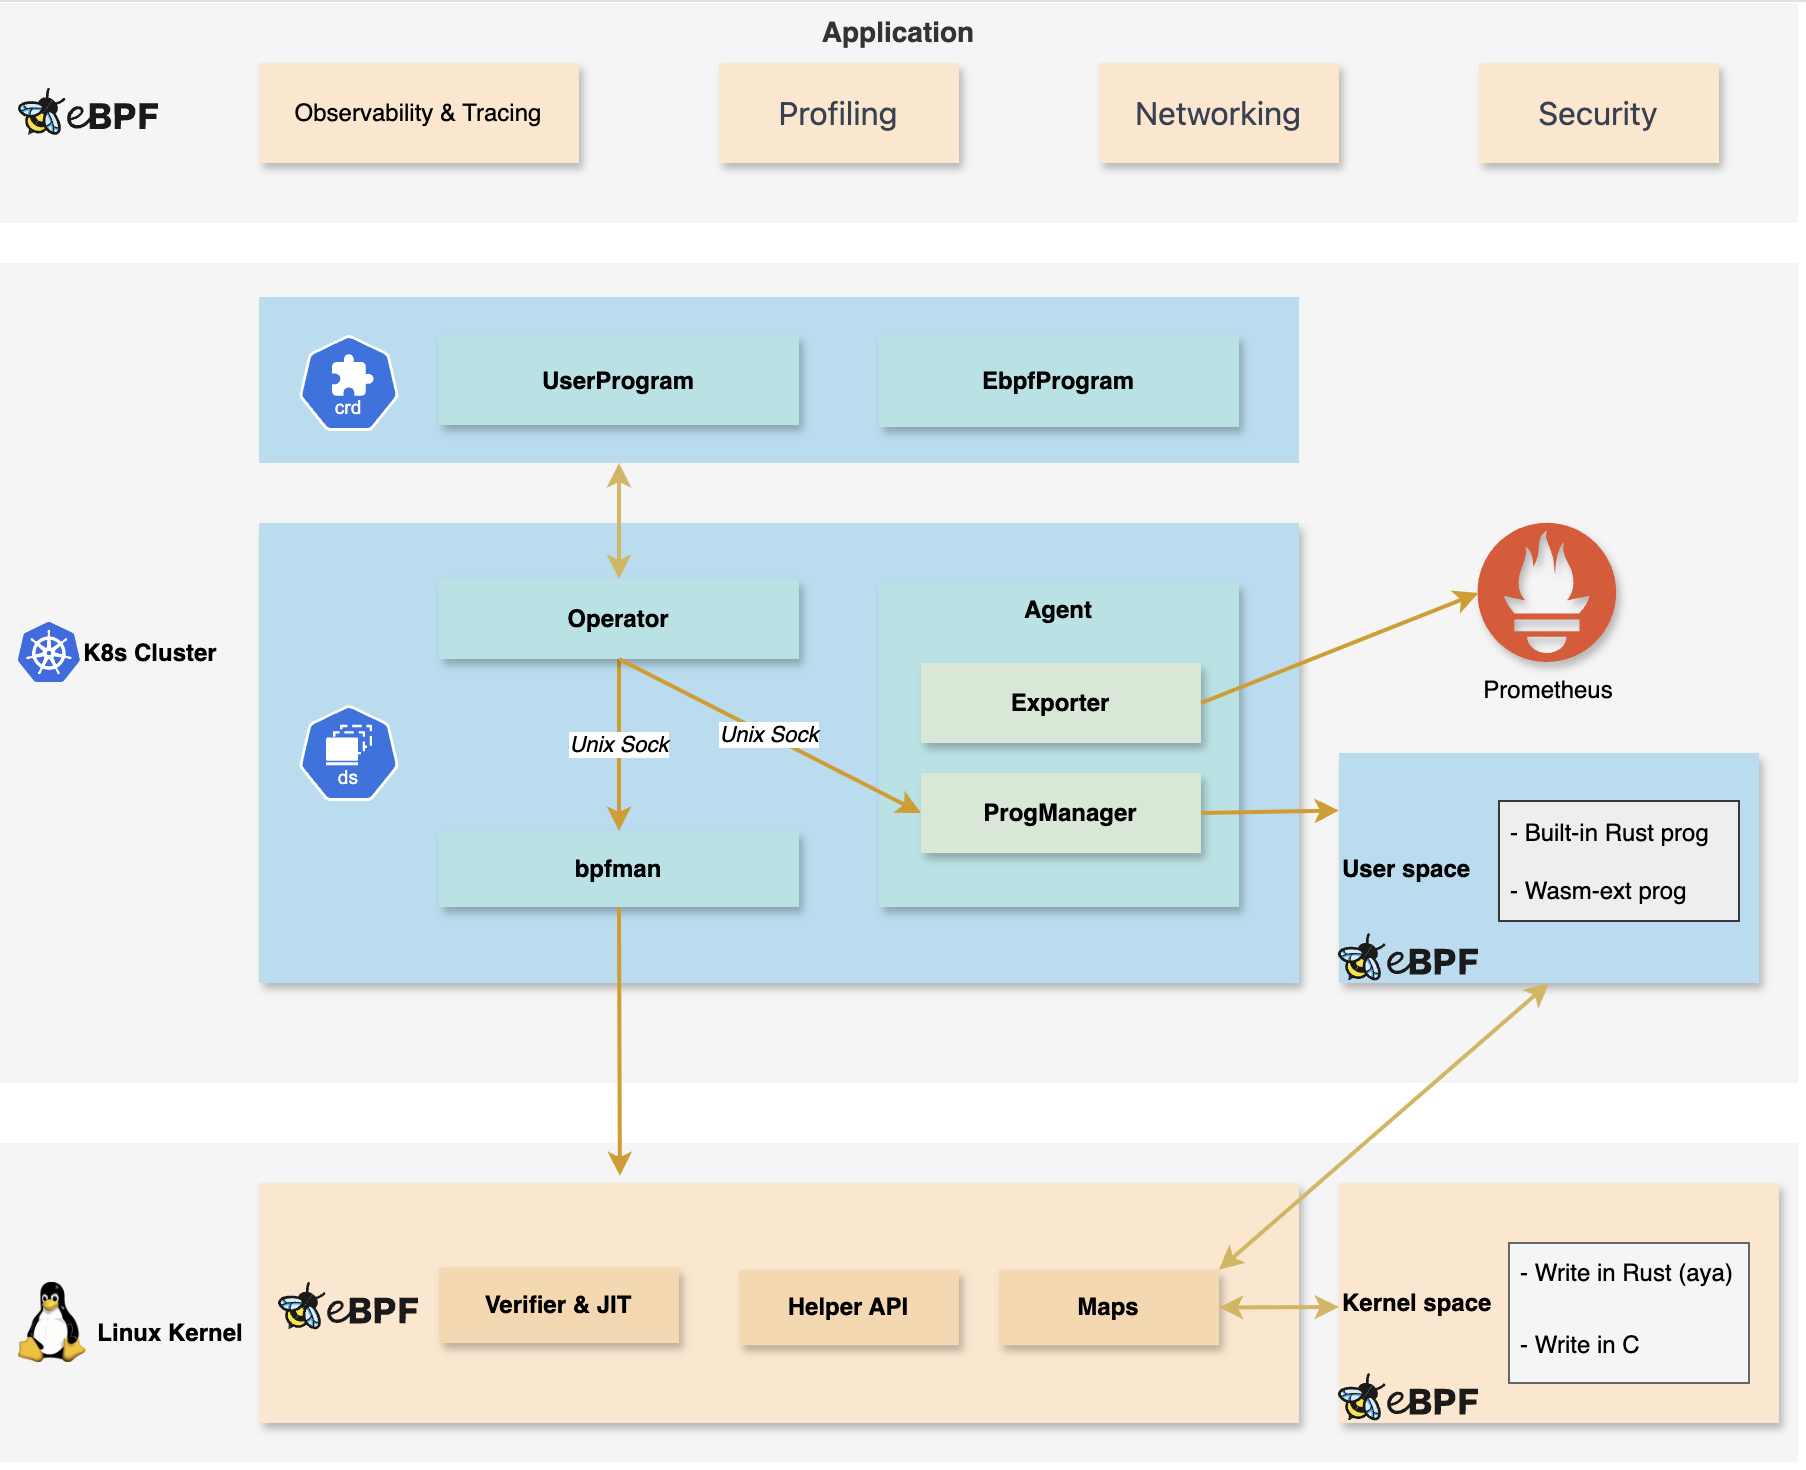
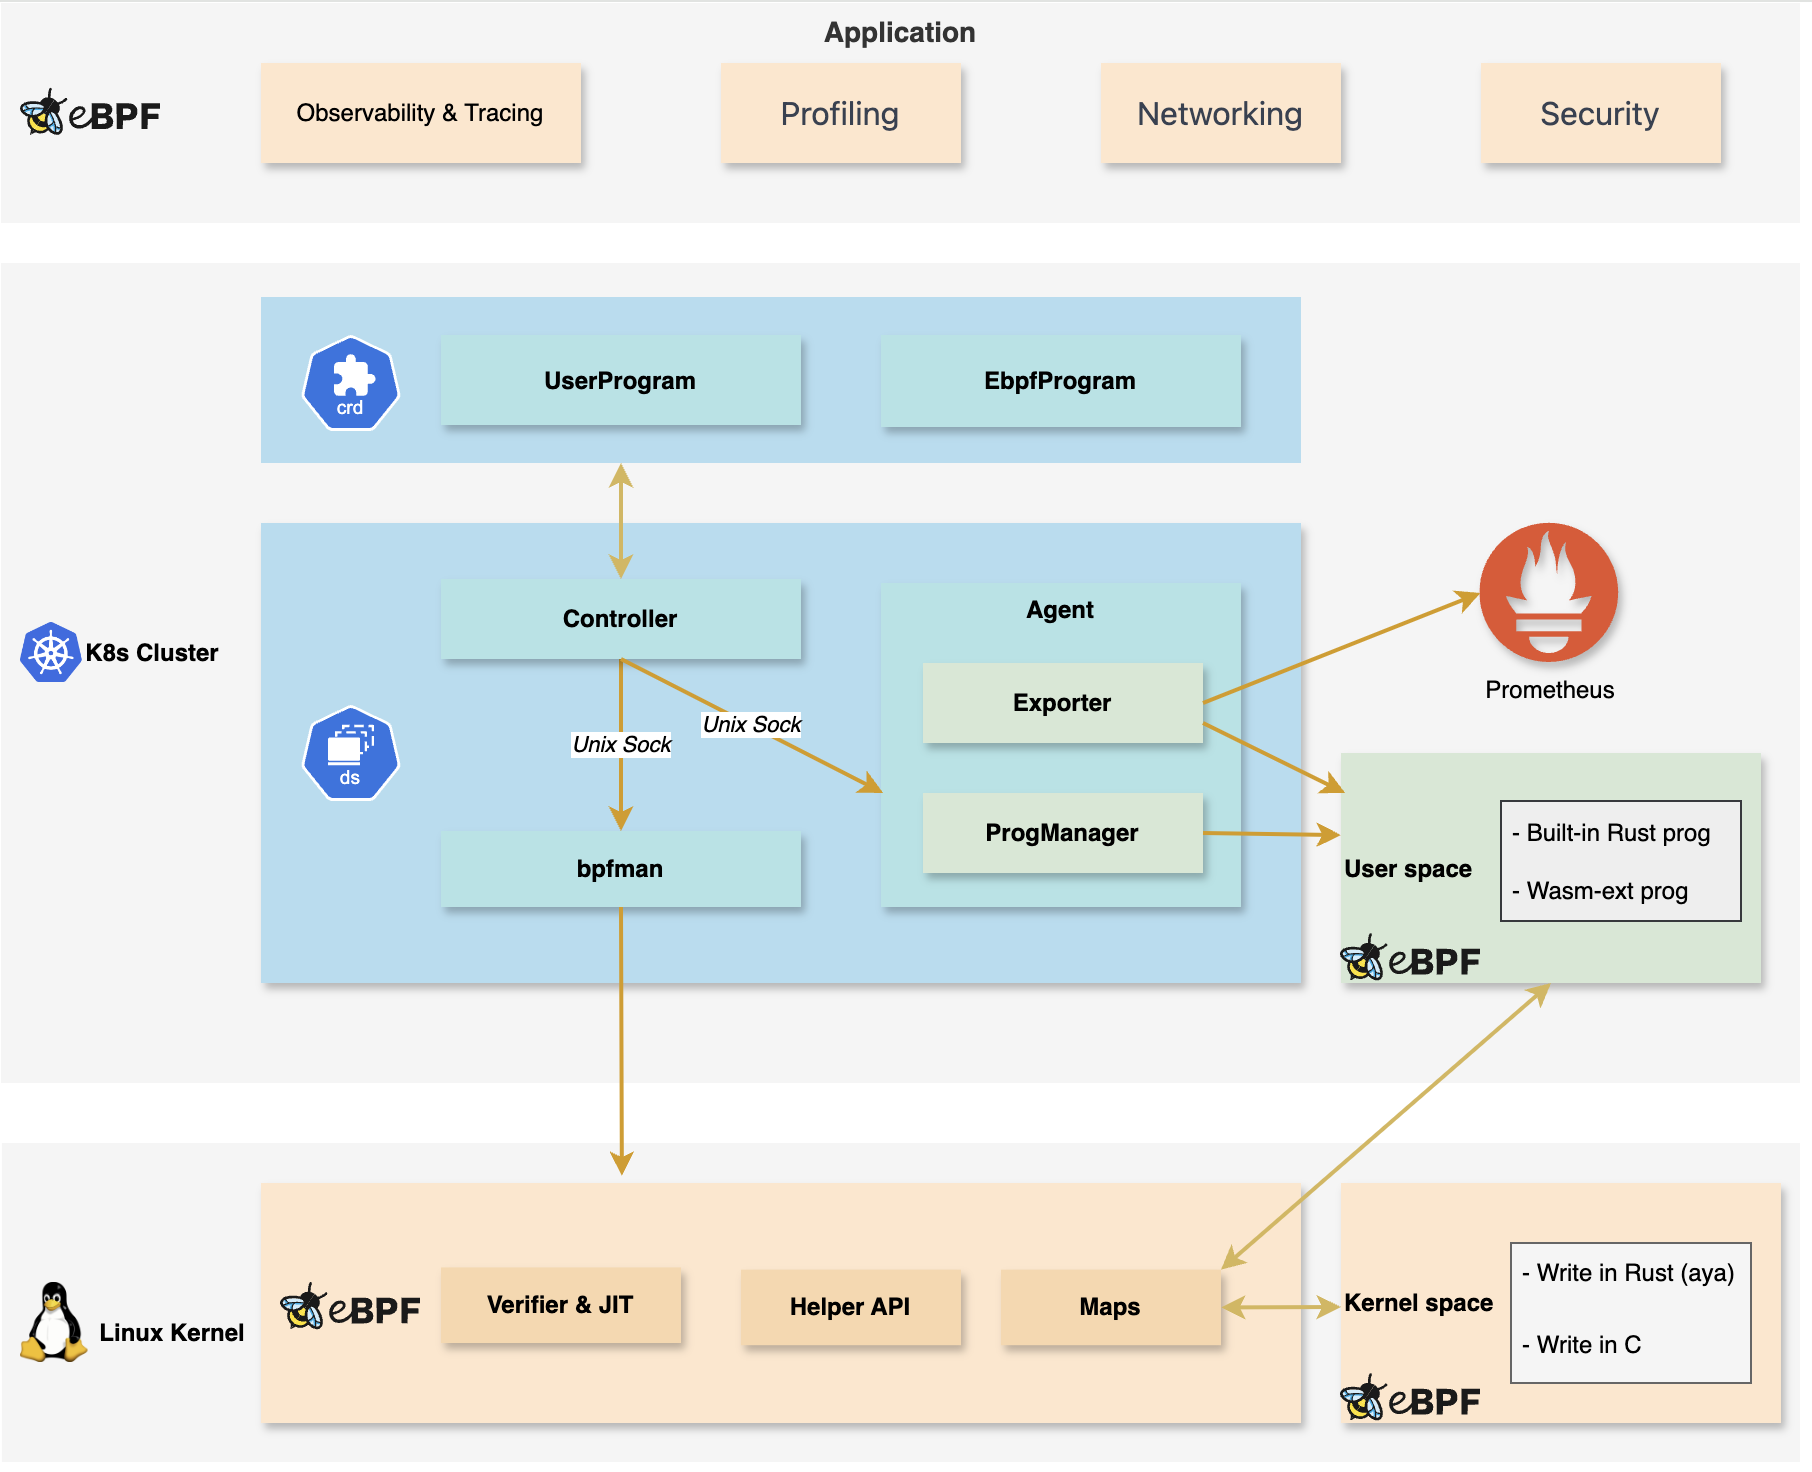
Update README.md

diff --git a/docs/desgin/arch.md b/docs/desgin/arch.md
@@ -1,21 +1,12 @@
-# eva
+# eBPFConductor
 
 ## Introduction
 
-eBPF is a powerful technology that enables low-overhead and dynamic instrumentation of the Linux kernel and user space
-applications.
-However, deploying and managing eBPF programs in a Kubernetes cluster presents certain challenges.
-
-The bpfman project provides a good way to simplify the deployment and management of kernel space eBPF programs.
-
-However, there is a lack of management for user space eBPF programs. Each user space eBPF Program is deployed as a
-daemonset, which increases the number of pods, leading to an increase in resource overhead and management costs.
-
-The goal of the eva is to simplify the deployment and management of eBPF programs, including both kernel space
-and user space.
-For kernel space, we will integrate with bpfman for management.
-For user space, we will deploy a single daemonset in the cluster to manage all eBPF programs, and we will provide an
-extensible mechanism based on wasm for user space eBPF programs.
+eBPFConductor is a Rust-based framework designed for the efficient management of eBPF programs in Kubernetes
+environments. It integrates with bpfman to handle kernel space eBPF programs and utilizes a single daemonset for user
+space eBPF program management, reducing resource consumption. The framework supports wasm for extensibility and includes
+a Prometheus-compatible exporter for streamlined monitoring. eBPFConductor aims to enhance Kubernetes eBPF program
+management through its focus on security, resource efficiency, and language support.
 
 ## Features
 
@@ -34,7 +25,7 @@ extensible mechanism based on wasm for user space eBPF programs.
 
 [![Architecture](../img/overall-arch.png)](../img/overall-arch.png)
 
-The eva consists of the following components:
+The eBPFConductor consists of the following components:
 
 - **Operator**: The Operator is responsible for managing the lifecycle of eBPF programs, encompassing both kernel and
   user spaces. For kernel space, the Operator interacts with bpfman, while for user space, it communicates with the
@@ -49,16 +40,16 @@ The eva consists of the following components:
 
 The Agent consists of the following components:
 
-- **RPC Server**: The RPC server provides management interfaces for user programs. It listens on a Unix domain socket
+- **Agent Service**: The Agent Service provides management interfaces for user programs. It listens on a Unix domain
+  socket
   and supports the following operations:
     - Load: Load a user program.
     - Unload: Unload a user program.
     - List: List all user programs.
     - Get: Get the status of a user program.
     - Update: Update a user program.
-- **HTTP Server**: The HTTP server provides metrics for user space eBPF programs. It interacts with the Exporter to
-  obtain metrics. The Exporter calls the collector method of each user program (each user program implements the
-  Collector Trait to provide metrics), while also providing metrics of the Agent itself.
+- **Exporter**: The Exporter is responsible for exporting metrics. It interacts with the HTTP Server to provide metrics
+  for user programs. The Exporter calls the collector method of each user program to obtain metrics.
 - **Program**: The Program is a user program (it can also interact without eBPF Maps, such as only obtaining data
   through /sys or /proc). A Program can be a built-in Rust program, or a wasm program introduced through an extension
   mechanism.
@@ -73,8 +64,6 @@ The Agent consists of the following components:
       user programs. Both built-in Rust programs and wasm programs are maintained by the Registry Manager.
     - **Image Manager**: The Image Manager is in charge of managing the images of user programs. It offers interfaces
       for pulling images of user programs and provides bytecode for the Program Manager to load.
-- **Exporter**: The Exporter is responsible for exporting metrics. It interacts with the HTTP Server to provide metrics
-  for user programs. The Exporter calls the collector method of each user program to obtain metrics.
 
 ## Discussion
 

diff --git a/README.md b/README.md
@@ -1,1 +1,68 @@
-# eva
+# eBPFConductor
+
+## Introduction
+
+eBPFConductor is a Rust-based framework designed for the efficient management of eBPF programs in Kubernetes
+environments. It integrates with bpfman to handle kernel space eBPF programs and utilizes a single daemonset for user
+space eBPF program management, reducing resource consumption. The framework supports wasm for extensibility and includes
+a Prometheus-compatible exporter for streamlined monitoring. eBPFConductor aims to enhance Kubernetes eBPF program
+management through its focus on security, resource efficiency, and language support.
+
+## Features
+
+- **Management**: Provide CRDs for eBPF programs, including both kernel space and user space.
+- **Security**: Improved security based on bpfman. Because only the bpfman daemon, which can be tightly controlled, has
+  the
+  privileges needed to load eBPF programs, while access to the API can be controlled via standard RBAC methods.
+- **Extensibility**: Support for user space eBPF programs based on wasm, which can be easily extended to support other
+  languages.
+- **Simplified Deployment**: Only a single daemonset is needed to manage all eBPF programs.
+- **Metrics Export**: Provide an exporter, which can uniformly export industry-standard Prometheus metrics.
+
+## Design
+
+### Architecture
+
+[![Architecture](./docs/img/overall-arch.png)](./docs/img/overall-arch.png)
+
+The eBPFConductor consists of the following components:
+
+- **Operator**: The Operator is responsible for managing the lifecycle of eBPF programs, encompassing both kernel and
+  user spaces. For kernel space, the Operator interacts with bpfman, while for user space, it communicates with the
+  agent. Both interactions occur via Unix domain socket communication.
+- **Agent**: The Agent is responsible for managing user space eBPF programs. It includes an RPC server to provide
+  management interfaces, and an HTTP server to provide metrics. The Agent can run multiple user programs simultaneously
+  and supports extensibility.
+
+#### Agent Architecture
+
+[![Agent Architecture](./docs/img/agent-arch.png)](./docs/img/agent-arch.png)
+
+The Agent consists of the following components:
+
+- **Agent Service**: The Agent Service provides management interfaces for user programs. It listens on a Unix domain
+  socket
+  and supports the following operations:
+    - Load: Load a user program.
+    - Unload: Unload a user program.
+    - List: List all user programs.
+    - Get: Get the status of a user program.
+    - Update: Update a user program.
+- **Exporter**: The Exporter is responsible for exporting metrics. It interacts with the HTTP Server to provide metrics
+  for user programs. The Exporter calls the collector method of each user program to obtain metrics.
+- **Program**: The Program is a user program (it can also interact without eBPF Maps, such as only obtaining data
+  through /sys or /proc). A Program can be a built-in Rust program, or a wasm program introduced through an extension
+  mechanism.
+- **Managers**:
+    - **Program Manager**: The Program Manager is responsible for managing user programs. It interacts with the
+      Registry Manager, Cache Manager, and Image Manager to manage user programs. It provides interfaces for loading,
+      unloading, listing, getting, and updating user programs. The Program Manager is also responsible for starting and
+      stopping user programs.
+    - **Cache Manager**: The Cache Manager provides shared information for user programs, such as the metadata of
+      kubernetes cluster.
+    - **Registry Manager**: The Registry Manager maintains a list of user programs and provides interfaces for managing
+      user programs. Both built-in Rust programs and wasm programs are maintained by the Registry Manager.
+    - **Image Manager**: The Image Manager is in charge of managing the images of user programs. It offers interfaces
+      for pulling images of user programs and provides bytecode for the Program Manager to load.
+
+
